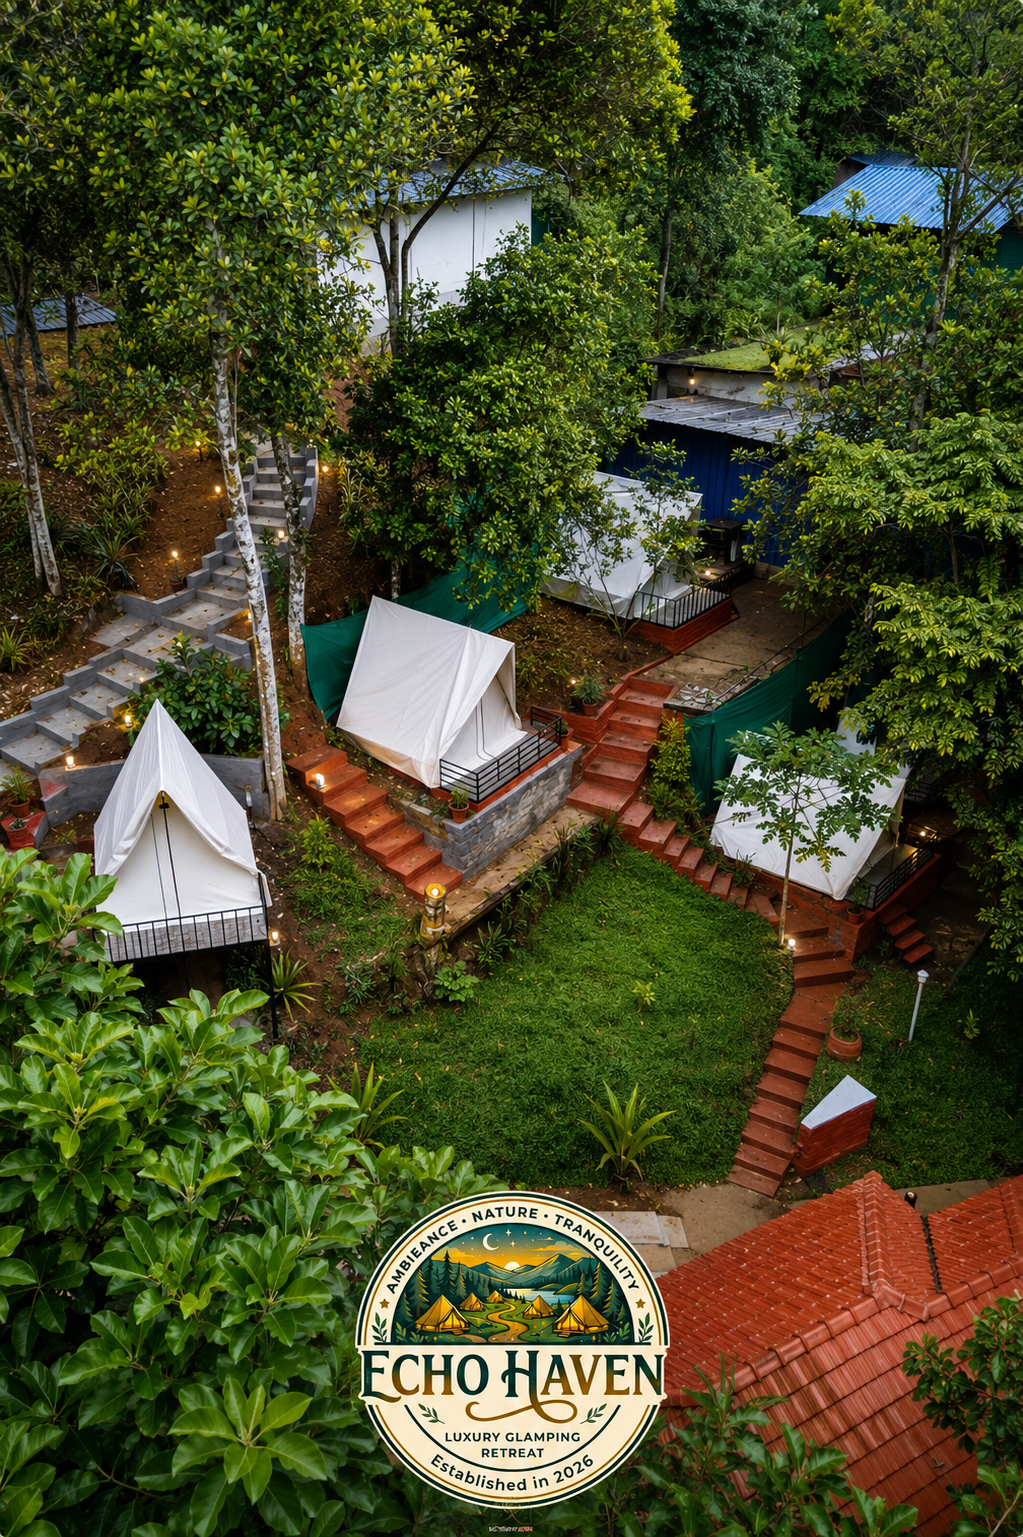
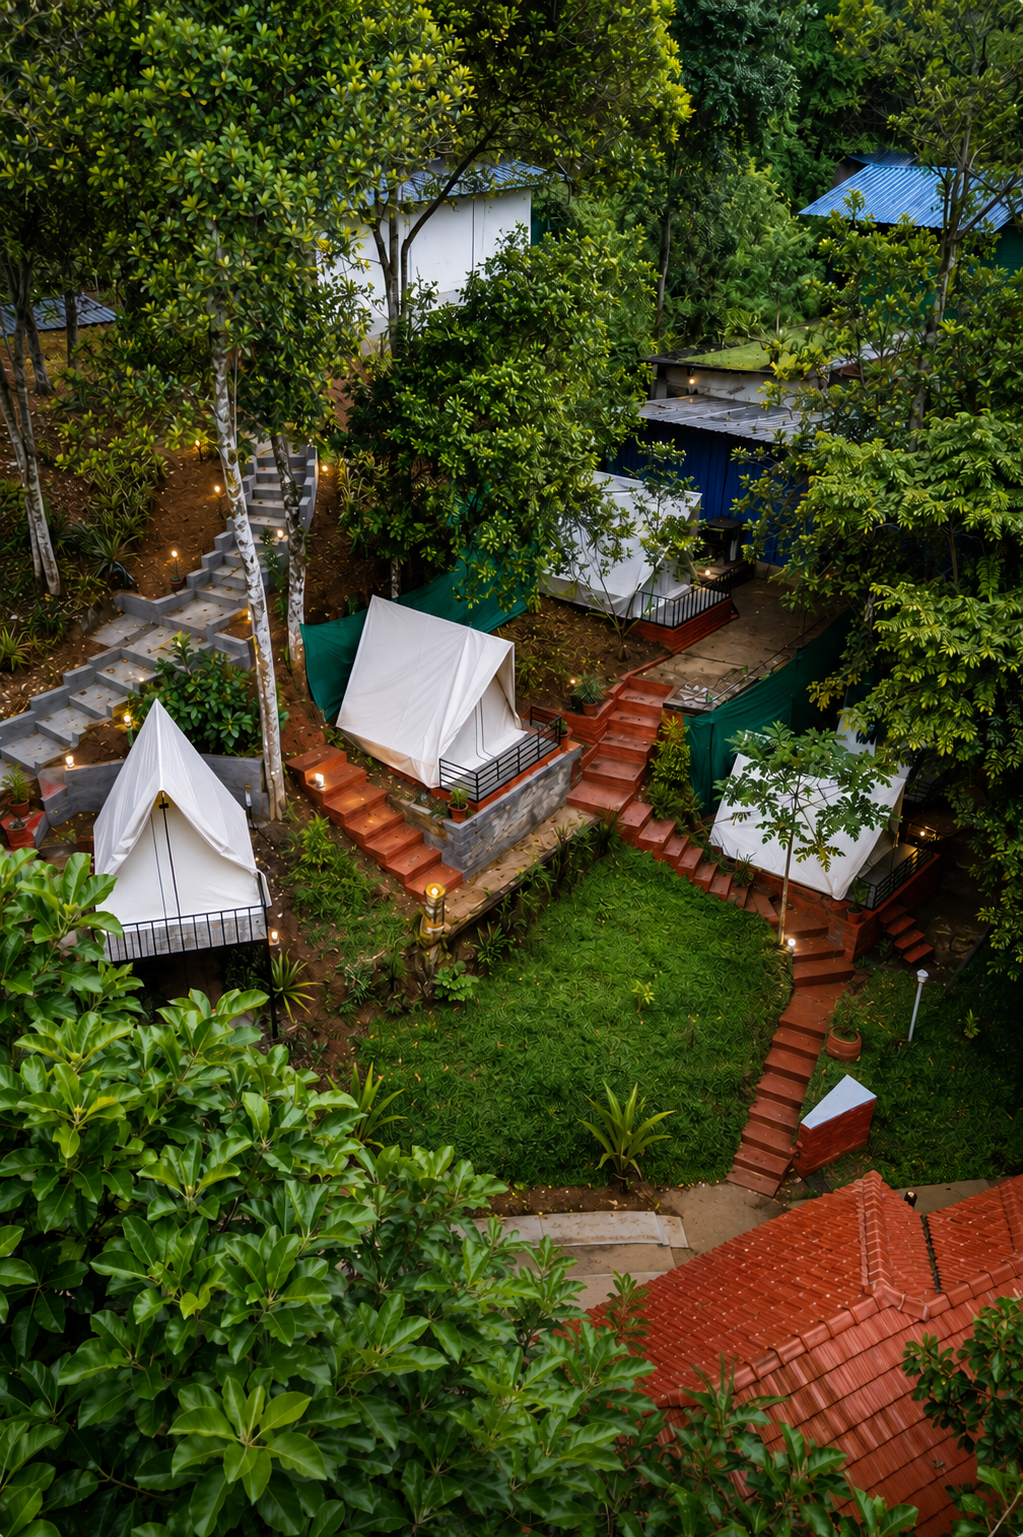
Update pricing section and experiences

diff --git a/components/Experiences.tsx b/components/Experiences.tsx
@@ -1,0 +1,113 @@
+"use client";
+
+import { motion } from "framer-motion";
+import Image from "next/image";
+
+const experiences = [
+  {
+    title: "Kolukkumalai Sunrise Jeep Safari",
+    image: "/images/experiences/kolukkumalai.jpg",
+    icon: "🚙",
+    description:
+      "Experience an unforgettable sunrise from Kolukkumalai, home to one of the world's highest tea plantations. Enjoy an exciting off-road jeep safari through misty hills, breathtaking viewpoints, and beautiful tea estates.",
+  },
+  {
+    title: "Chokramudi Peak Trekking",
+    image: "/images/experiences/chokramudi.jpg",
+    icon: "🥾",
+    description:
+      "Trek to Chokramudi Peak (7,200 ft), one of Munnar's highest mountains. The trail passes through rolling tea plantations, lush Shola forests, and scenic grasslands, rewarding you with spectacular panoramic views.",
+  },
+];
+
+export default function Experiences() {
+  return (
+    <section className="bg-white py-24">
+      <div className="mx-auto max-w-7xl px-6">
+
+        <motion.div
+          initial={{ opacity: 0, y: 40 }}
+          whileInView={{ opacity: 1, y: 0 }}
+          viewport={{ once: true }}
+          transition={{ duration: 0.8 }}
+          className="text-center"
+        >
+          <p className="font-semibold uppercase tracking-[5px] text-green-700">
+            Explore Munnar
+          </p>
+
+          <h2 className="mt-4 text-5xl font-bold text-gray-900">
+            Optional Adventure Experiences
+          </h2>
+
+          <p className="mx-auto mt-6 max-w-3xl text-lg text-gray-600">
+            Make your stay even more memorable with exciting outdoor
+            experiences that can be arranged during your visit.
+          </p>
+
+          <div className="mt-5 inline-block rounded-full bg-yellow-100 px-5 py-2 text-sm font-semibold text-yellow-700">
+            These activities are optional and are not included in the ₹1500 stay.
+          </div>
+        </motion.div>
+
+        <div className="mt-16 grid gap-10 lg:grid-cols-2">
+
+          {experiences.map((experience, index) => (
+            <motion.div
+              key={experience.title}
+              initial={{ opacity: 0, y: 50 }}
+              whileInView={{ opacity: 1, y: 0 }}
+              viewport={{ once: true }}
+              transition={{
+                duration: 0.7,
+                delay: index * 0.2,
+              }}
+              whileHover={{ y: -8 }}
+              className="overflow-hidden rounded-3xl bg-white shadow-2xl"
+            >
+              <Image
+                src={experience.image}
+                alt={experience.title}
+                width={800}
+                height={500}
+                className="h-72 w-full object-cover transition duration-700 hover:scale-105"
+              />
+
+              <div className="p-8">
+
+                <h3 className="text-3xl font-bold text-green-900">
+                  {experience.icon} {experience.title}
+                </h3>
+
+                <p className="mt-5 leading-8 text-gray-600">
+                  {experience.description}
+                </p>
+
+                <div className="mt-8 rounded-2xl bg-green-50 p-5">
+                  <p className="font-semibold text-green-900">
+                    ✓ Available on request
+                  </p>
+
+                  <p className="mt-2 text-gray-600">
+                    Contact us on WhatsApp and we'll help arrange this
+                    experience during your stay.
+                  </p>
+                </div>
+
+                <a
+                  href="https://wa.me/918606470462"
+                  target="_blank"
+                  className="mt-8 inline-block rounded-full bg-green-700 px-8 py-4 font-semibold text-white transition hover:bg-green-800"
+                >
+                  Enquire on WhatsApp
+                </a>
+
+              </div>
+            </motion.div>
+          ))}
+
+        </div>
+      </div>
+    </section>
+  );
+}

diff --git a/components/Pricing.tsx b/components/Pricing.tsx
@@ -2,69 +2,104 @@ export default function Pricing() {
   return (
     <section
       id="pricing"
-      className="scroll-mt-24 bg-[#f8f5ef] py-16 md:py-24"
+      className="scroll-mt-24 bg-gradient-to-b from-[#0d2b22] via-[#143d2d] to-[#0d2b22] py-20 md:py-28"
     >
-      <div className="mx-auto max-w-6xl px-5 md:px-6">
+      <div className="mx-auto max-w-7xl px-6">
+
         {/* Heading */}
         <div className="text-center">
-          <p className="text-sm font-semibold uppercase tracking-[5px] text-green-700 md:text-base md:tracking-[6px]">
-            Stay With Us
+          <p className="font-semibold uppercase tracking-[6px] text-yellow-400">
+            STAY WITH US
           </p>
 
-          <h2 className="mt-4 text-3xl font-bold text-green-900 sm:text-4xl md:text-5xl">
-            Camping Experience
+          <h2 className="mt-4 text-4xl font-bold text-white md:text-6xl">
+            Your Nature Escape
           </h2>
 
-          <p className="mx-auto mt-5 max-w-2xl text-base leading-7 text-gray-600 md:mt-6 md:text-lg">
-            Affordable, peaceful and surrounded by nature.
+          <p className="mx-auto mt-6 max-w-3xl text-lg leading-8 text-gray-100">
+            Comfortable camping surrounded by the breathtaking beauty of
+            Munnar. Peaceful, affordable and perfect for couples,
+            families and adventure lovers.
           </p>
         </div>
 
         {/* Pricing Card */}
-        <div className="mx-auto mt-10 max-w-xl rounded-3xl bg-white p-6 shadow-2xl md:mt-16 md:p-10">
-          {/* Badge */}
-          <div className="inline-block rounded-full bg-yellow-100 px-4 py-2 text-sm font-semibold text-yellow-700">
-            ⭐ Most Popular
+        <div className="mx-auto mt-16 max-w-4xl rounded-[35px] bg-white p-10 shadow-[0_30px_80px_rgba(0,0,0,0.25)] transition duration-500 hover:-translate-y-2">
+
+          <div className="inline-flex rounded-full bg-green-700 px-5 py-2 text-sm font-semibold text-white">
+            ⭐ Echo Haven Signature Stay
           </div>
 
-          <h3 className="mt-6 text-2xl font-bold text-green-900 md:text-3xl">
+          <h3 className="mt-8 text-4xl font-bold text-gray-900">
             Standard Tent
           </h3>
 
-          <p className="mt-4 text-4xl font-bold text-green-700 md:text-5xl">
-            ₹1500
-            <span className="ml-2 text-lg font-normal text-gray-500 md:text-xl">
-              / night
+          <div className="mt-8 flex items-end gap-3">
+            <span className="text-6xl font-extrabold text-green-700">
+              ₹1500
             </span>
+
+            <span className="pb-2 text-xl text-gray-500">
+              / Night
+            </span>
+          </div>
+
+          <p className="mt-4 text-lg text-gray-600">
+            Includes comfortable accommodation and complimentary breakfast.
           </p>
 
-          <ul className="mt-8 space-y-4 leading-7 text-gray-700">
-            <li>✅ Comfortable Camping Tent</li>
-            <li>✅ Complimentary Breakfast</li>
-            <li>✅ Campfire with Music</li>
-            <li>✅ Free Wi-Fi</li>
-            <li>✅ Free Parking</li>
-            <li>✅ Beautiful Mountain Views</li>
-          </ul>
+          <div className="my-8 border-t border-gray-200"></div>
+
+          <div className="space-y-5 text-lg text-gray-800">
+            <div>🏕️ Comfortable Camping Tent</div>
+            <div>🍳 Complimentary Breakfast</div>
+            <div>🔥 Evening Campfire with Music</div>
+            <div>📶 Free High-Speed Wi-Fi</div>
+            <div>🚗 Free Parking</div>
+            <div>🌄 Beautiful Mountain Views</div>
+            <div>🌿 Peaceful Nature Experience</div>
+          </div>
+
+          <div className="mt-10 rounded-2xl border border-green-200 bg-green-50 p-6">
+            <h4 className="text-xl font-bold text-green-800">
+              Adventure Activities
+            </h4>
+
+            <p className="mt-3 leading-7 text-gray-700">
+              Enhance your stay with our optional{" "}
+              <span className="font-semibold text-green-700">
+                Kolukkumalai Sunrise Jeep Safari
+              </span>{" "}
+              or{" "}
+              <span className="font-semibold text-green-700">
+                Chokramudi Peak Trekking
+              </span>.
+              These experiences can be arranged on request and are charged separately from the accommodation.
+            </p>
+          </div>
 
           <div className="mt-10 flex flex-col gap-4 sm:flex-row">
+
             <a
               href="https://wa.me/918606470462"
               target="_blank"
               rel="noopener noreferrer"
-              className="flex-1 rounded-full bg-green-700 px-6 py-4 text-center font-semibold text-white transition duration-300 hover:bg-green-800 hover:scale-105"
+              className="flex-1 rounded-full bg-green-700 px-8 py-4 text-center text-lg font-bold text-white transition hover:scale-105 hover:bg-green-800"
             >
               Book on WhatsApp
             </a>
 
             <a
               href="tel:[phone redacted]"
-              className="flex-1 rounded-full border-2 border-green-700 px-6 py-4 text-center font-semibold text-green-700 transition duration-300 hover:bg-green-700 hover:text-white hover:scale-105"
+              className="flex-1 rounded-full border-2 border-green-700 px-8 py-4 text-center text-lg font-bold text-green-700 transition hover:bg-green-700 hover:text-white"
             >
               Call Now
             </a>
+
           </div>
+
         </div>
+
       </div>
     </section>
   );

diff --git a/app/page.tsx b/app/page.tsx
@@ -3,6 +3,7 @@ import Hero from "@/components/Hero";
 import About from "@/components/About";
 import VideoSection from "@/components/VideoSection";
 import Features from "@/components/Features";
+import Experiences from "@/components/Experiences";
 import Gallery from "@/components/Gallery";
 import Pricing from "@/components/Pricing";
 import Location from "@/components/Location";
@@ -23,14 +24,17 @@ export default function Home() {
       {/* About */}
       <About />
 
-      {/* Video */}
-      <VideoSection />
-
       {/* Features */}
       <Features />
 
+      {/* Adventure Experiences */}
+      <Experiences />
+
       {/* Gallery */}
       <Gallery />
+
+      {/* Video */}
+      <VideoSection />
 
       {/* Pricing */}
       <Pricing />

diff --git a/app/layout.tsx b/app/layout.tsx
@@ -14,6 +14,12 @@ const geistMono = Geist_Mono({
 });
 
 export const metadata: Metadata = {
+  verification: {
+    google: "5si3VwqKOHPWy76zyDTRAESd54ngCiy8ZSKQQsHdB7c",
+  },
+
+  metadataBase: new URL("https://echo-haven-nine.vercel.app"),
+
   title: {
     default: "Echo Haven | Camping & Nature Stay in Munnar",
     template: "%s | Echo Haven",
@@ -57,6 +63,8 @@ export const metadata: Metadata = {
 
     description:
       "Experience peaceful camping surrounded by the beautiful hills of Munnar. Comfortable tents, campfires, breakfast included and breathtaking mountain views.",
+
+    url: "https://echo-haven-nine.vercel.app",
 
     siteName: "Echo Haven",
 